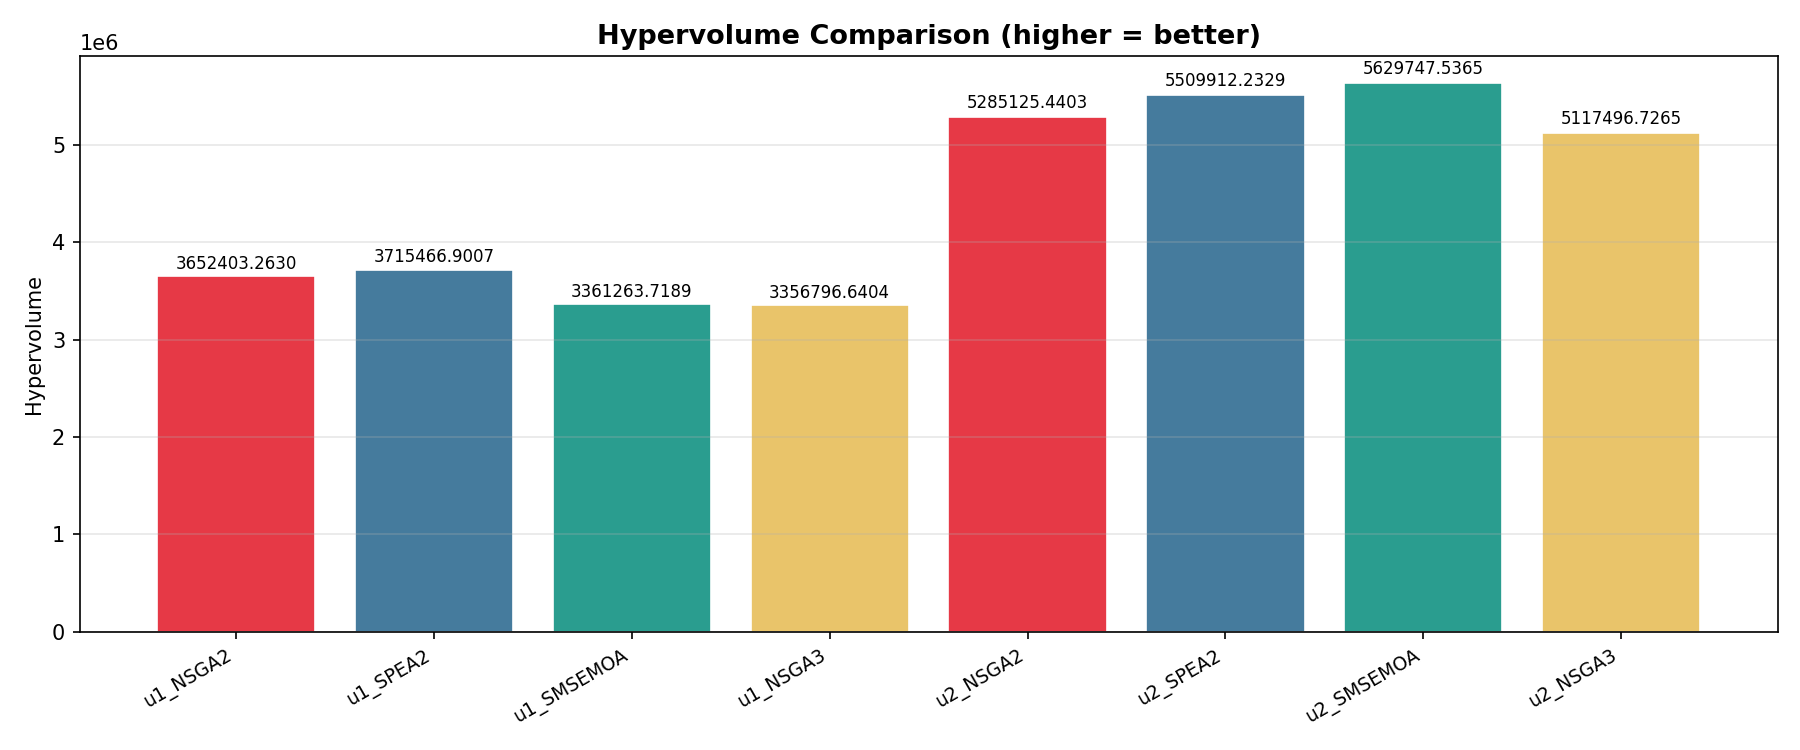
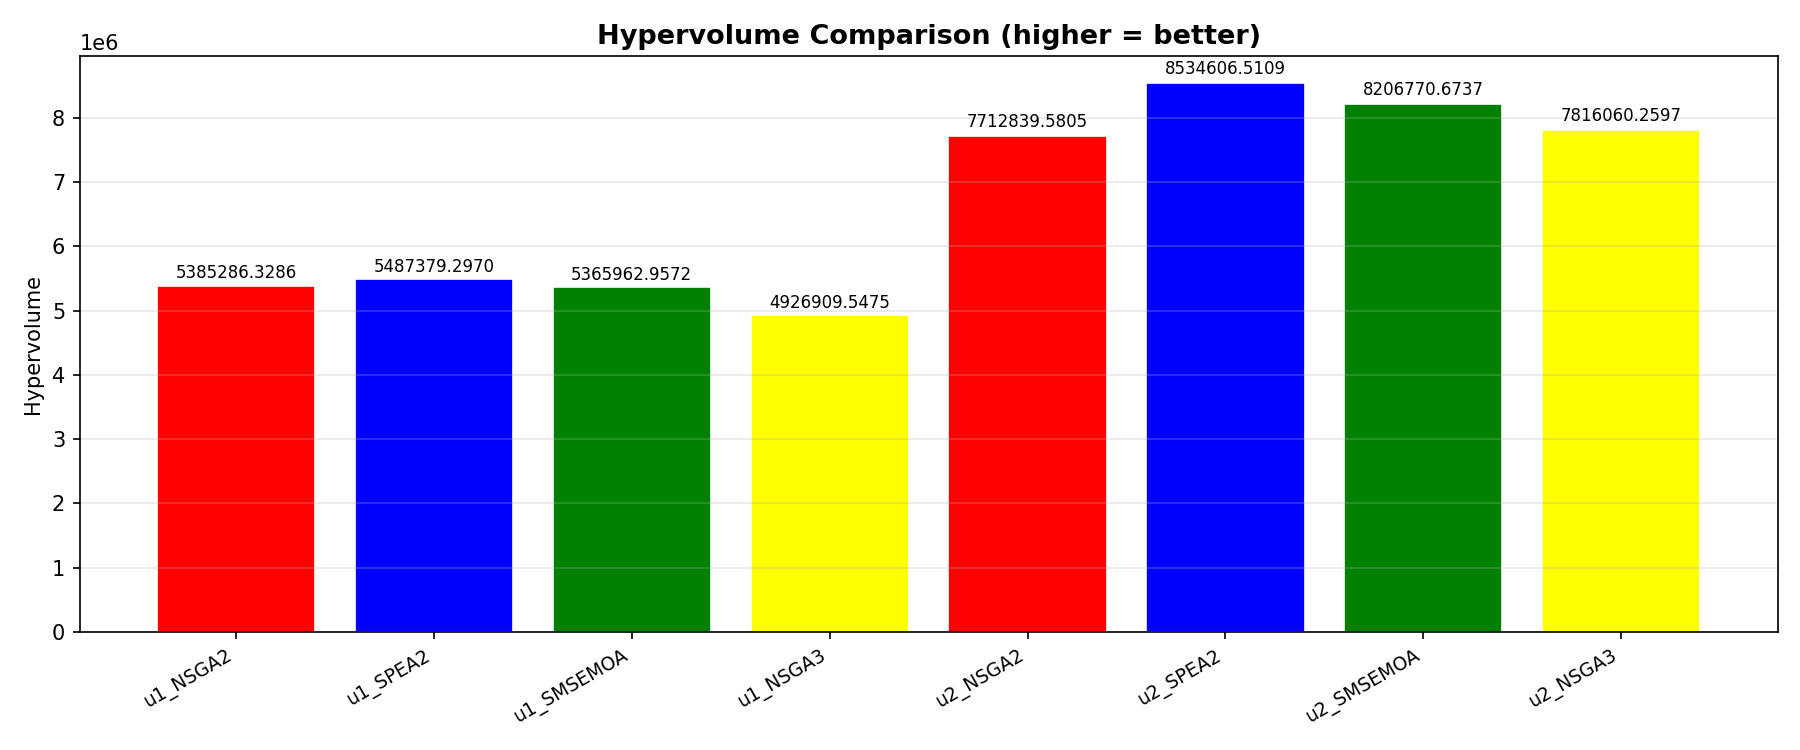
Add multiple U2 algorithm runs and polish plots

diff --git a/src/main.py b/src/main.py
@@ -1,6 +1,4 @@
 import os
-
-
 output_dir = os.path.join(os.path.dirname(__file__), '..', 'results')
 os.makedirs(output_dir, exist_ok=True)
 
@@ -28,7 +26,7 @@ from fitness import fitness
 import visualize
 
 
-# ── CALLBACK ────────────────────────────────────────────────────
+# --- Callback to track F history during optimization ---
 class FHistoryCallback(Callback):
     def __init__(self):
         super().__init__()
@@ -42,7 +40,7 @@ class FHistoryCallback(Callback):
             self.F_history.append(None)
 
 
-# ── PROBLEM ─────────────────────────────────────────────────────
+# ---- Problem Definition and Optimization ----
 class DietProblem(ElementwiseProblem):
     def __init__(self, user_id, diversity=True):
         super().__init__(n_var=405, n_obj=3, xl=0, xu=405)
@@ -59,7 +57,7 @@ class DietProblem(ElementwiseProblem):
         out["F"] = values
 
 
-# ── NON-VEGAN - USER 1 ──────────────────────────────────────────
+# -------NON-VEGAN - USER 1 ----------------------------------------------------------------------------------------------------------------------------------------
 problem_u1 = DietProblem(user_id=1)
 
 cb = FHistoryCallback()
@@ -85,37 +83,42 @@ algorithm = NSGA3(ref_dirs=ref_dirs, pop_size=100, sampling=PermutationRandomSam
 result_u1_n3 = minimize(problem_u1, algorithm, ('n_gen', 200), verbose=True, callback=cb)
 u1_n3_history = cb.F_history
 print("NSGA3:", len(result_u1_n3.F), "solution")
+# ----------------------------------------------------------------------------------------------------------------------------------------------------------
 
-
-# ── VEGAN - USER 2 ──────────────────────────────────────────────
+# -------VEGAN - USER 2 ----------------------------------------------------------------------------------------------------------------------------------------
 problem_u2 = DietProblem(user_id=2)
 
+# User 2 NSGA2
 cb = FHistoryCallback()
 algorithm = NSGA2(pop_size=100, sampling=PermutationRandomSampling(), crossover=OrderCrossover(), mutation=InversionMutation(), eliminate_duplicates=True)
 result_u2_n2 = minimize(problem_u2, algorithm, ('n_gen', 200), verbose=True, callback=cb)
 u2_n2_history = cb.F_history
 print("NSGA2:", len(result_u2_n2.F), "solution")
 
+# User 2 SPEA2
 cb = FHistoryCallback()
 algorithm = SPEA2(pop_size=100, sampling=PermutationRandomSampling(), crossover=OrderCrossover(), mutation=InversionMutation(), eliminate_duplicates=True)
 result_u2_s2 = minimize(problem_u2, algorithm, ('n_gen', 200), verbose=True, callback=cb)
 u2_s2_history = cb.F_history
 print("SPEA2:", len(result_u2_s2.F), "solution")
 
+# User 2 SMSEMOA
 cb = FHistoryCallback()
 algorithm = SMSEMOA(pop_size=100, sampling=PermutationRandomSampling(), crossover=OrderCrossover(), mutation=InversionMutation(), eliminate_duplicates=True)
 result_u2_sms = minimize(problem_u2, algorithm, ('n_gen', 200), verbose=True, callback=cb)
 u2_sms_history = cb.F_history
 print("SMSEMOA:", len(result_u2_sms.F), "solution")
 
+# User 2 NSGA3
 cb = FHistoryCallback()
 algorithm = NSGA3(ref_dirs=ref_dirs, pop_size=100, sampling=PermutationRandomSampling(), crossover=OrderCrossover(), mutation=InversionMutation(), eliminate_duplicates=True)
 result_u2_n3 = minimize(problem_u2, algorithm, ('n_gen', 200), verbose=True, callback=cb)
 u2_n3_history = cb.F_history
 print("NSGA3:", len(result_u2_n3.F), "solution")
 
+# --------------------------------------------------------------------------------------------------------------------------------------------------------------
 
-# ── KARŞILAŞTIRMA - REFERANS NOKTASI & HYPERVOLUME ──────────────
+# --- Compute Hypervolume (Reference point for all 4 algorithms) ---
 all_F = np.vstack([
     result_u1_n2.F, result_u1_s2.F, result_u1_n3.F, result_u1_sms.F,
     result_u2_n2.F, result_u2_s2.F, result_u2_n3.F, result_u2_sms.F,
@@ -138,7 +141,7 @@ for key, val in hv_dict.items():
     print(f"{key} Hypervolume : {val}")
 
 
-# ── SONUÇLARI CSV KAYDET ────────────────────────────────────────
+# --- Save results to CSV ---
 pd.DataFrame(result_u1_n2.F,  columns=["preference", "cost", "prepTime"]).to_csv(os.path.join(output_dir, "nsga-2_u1.csv"),   index=False)
 pd.DataFrame(result_u1_s2.F,  columns=["preference", "cost", "prepTime"]).to_csv(os.path.join(output_dir, "spea-2_u1.csv"),   index=False)
 pd.DataFrame(result_u1_sms.F, columns=["preference", "cost", "prepTime"]).to_csv(os.path.join(output_dir, "smsemoa_u1.csv"),  index=False)
@@ -149,7 +152,7 @@ pd.DataFrame(result_u2_s2.F,  columns=["preference", "cost", "prepTime"]).to_csv
 pd.DataFrame(result_u2_sms.F, columns=["preference", "cost", "prepTime"]).to_csv(os.path.join(output_dir, "smsemoa_u2.csv"),  index=False)
 pd.DataFrame(result_u2_n3.F,  columns=["preference", "cost", "prepTime"]).to_csv(os.path.join(output_dir, "nsga-3_u2.csv"),   index=False)
 
-# ── DIVERSITY KARŞILAŞTIRMASI - USER 1, NSGA2 ───────────────────
+# --- Diversity Comparison (NSGA2 with vs without diversity) ---
 problem_u1_nodiv = DietProblem(user_id=1, diversity=False)
 
 cb = FHistoryCallback()
@@ -157,7 +160,8 @@ algorithm = NSGA2(pop_size=100, sampling=PermutationRandomSampling(), crossover=
 result_u1_n2_nodiv = minimize(problem_u1_nodiv, algorithm, ('n_gen', 200), verbose=True, callback=cb)
 print("NSGA2 (no diversity):", len(result_u1_n2_nodiv.F), "solution")
 
-# ── GÖRSELLEŞTİRME ─────────────────────────────────────────────
+
+# --- Visualization ---
 
 visualize.run_all(
     results_u1=[result_u1_n2, result_u1_s2, result_u1_sms, result_u1_n3],

diff --git a/src/visualize.py b/src/visualize.py
@@ -1,8 +1,3 @@
-"""
-visualize.py  –  Diet Optimization Results Visualizer
-Run after main.py has populated the result_* variables and *_history lists.
-"""
-
 import os
 import numpy as np
 import matplotlib.pyplot as plt
@@ -13,16 +8,13 @@ os.makedirs(output_dir, exist_ok=True)
 
 ALGO_LABELS  = ["NSGA-2", "SPEA-2", "SMS-EMOA", "NSGA-3"]
 USER_LABELS  = ["User-1 (Non-Vegan)", "User-2 (Vegan)"]
-OBJ_LABELS   = ["Preference ↓", "Cost ↓", "Prep Time ↓"]
-COLORS       = ["#E63946", "#457B9D", "#2A9D8F", "#E9C46A"]
+OBJ_LABELS   = ["Preference", "Cost", "Prep Time"]
+COLORS       = ["red", "blue", "green", "yellow"]
 
 
-# ─── 1. Pareto Front – 3-D scatter ────────────────────────────────────────────
+# --- Pareto Front – 3-D scatter plot ---
 
 def plot_pareto_3d(results_u1, results_u2):
-    """
-    results_u1 / results_u2 : list of 4 result objects [nsga2, spea2, sms, nsga3]
-    """
     fig = plt.figure(figsize=(16, 6))
     fig.suptitle("Pareto Fronts – 3-D Objective Space", fontsize=14, fontweight="bold")
 
@@ -45,16 +37,10 @@ def plot_pareto_3d(results_u1, results_u2):
     print("Saved: pareto_3d.png")
 
 
-# ─── 2. Convergence Curve – HV vs Generation ──────────────────────────────────
+# --- Convergence Curve – HV vs Generation ---
 
 def plot_convergence(histories_u1, histories_u2, ref_point):
-    """
-    histories_u*  : list of 4 F_history lists  (each is a list of length n_gen,
-                    where each element is an (n, 3) array or None)
-    ref_point     : (3,) array used for HV
-    """
     hv_calc = HV(ref_point=ref_point)
-
     fig, axes = plt.subplots(1, 2, figsize=(14, 5), sharey=False)
     fig.suptitle("Convergence – Hypervolume per Generation", fontsize=14, fontweight="bold")
 
@@ -83,7 +69,7 @@ def plot_convergence(histories_u1, histories_u2, ref_point):
     print("Saved: convergence.png")
 
 
-# ─── 3. HV Bar Chart ──────────────────────────────────────────────────────────
+# --- 3. HV Bar Chart ---
 
 def plot_hv_bar(hv_dict):
     """
@@ -95,7 +81,7 @@ def plot_hv_bar(hv_dict):
 
     fig, ax = plt.subplots(figsize=(12, 5))
     bars = ax.bar(labels, values, color=bar_colors, edgecolor="white", linewidth=0.8)
-    ax.set_title("Hypervolume Comparison (higher = better)", fontsize=13, fontweight="bold")
+    ax.set_title("Hypervolume Comparison", fontsize=13, fontweight="bold")
     ax.set_ylabel("Hypervolume")
     ax.set_xticks(range(len(labels)))
     ax.set_xticklabels(labels, rotation=30, ha="right", fontsize=9)
@@ -111,13 +97,9 @@ def plot_hv_bar(hv_dict):
     plt.close()
     print("Saved: hv_bar.png")
 
-# ─── 5. Diversity Karşılaştırması ─────────────────────────────────────────────
+# --- Diversity Karşılaştırması ---
 
 def plot_diversity_comparison(result_with, result_without, decode_fn, foods, nutrients, food_nutrients, dri):
-    """
-    Pareto front overlay + ortalama group sayısı karşılaştırması
-    """
-    # ── Ortalama group sayısını hesapla
     def avg_groups(result):
         counts = []
         for x in result.X:
@@ -136,8 +118,8 @@ def plot_diversity_comparison(result_with, result_without, decode_fn, foods, nut
     ax = axes[0]
     ax.scatter(result_with.F[:, 0],    result_with.F[:, 1],    color=COLORS[0], s=25, alpha=0.8, label="With Diversity")
     ax.scatter(result_without.F[:, 0], result_without.F[:, 1], color=COLORS[1], s=25, alpha=0.8, label="Without Diversity")
-    ax.set_xlabel("Preference ↓")
-    ax.set_ylabel("Cost ↓")
+    ax.set_xlabel("Preference")
+    ax.set_ylabel("Cost")
     ax.set_title("Pareto Front (Preference vs Cost)")
     ax.legend()
     ax.grid(True, alpha=0.3)
@@ -170,10 +152,10 @@ def plot_diversity_comparison(result_with, result_without, decode_fn, foods, nut
     plt.show()
     plt.close()
     print("Saved: diversity_comparison.png")
-# ─── 4. Sample Menu Table ─────────────────────────────────────────────────────
 
-def plot_menu_table(result, decode_fn, foods, nutrients, food_nutrients, dri,
-                    n_samples=3, title="Sample Menus", filename="menu_table.png"):
+# --- 5. Sample Menu Table ---
+
+def plot_menu_table(result, decode_fn, foods, nutrients, food_nutrients, dri, n_samples=3, title="Sample Menus", filename="menu_table.png"):
     NUTRIENT_NAMES = {5: "Energy(kcal)", 15: "Protein(g)", 8: "Carb(g)", 4: "Fiber(g)", 17: "Sodium(mg)"}
     NUT_IDS = [5, 15, 8, 4, 17]
 
@@ -216,7 +198,7 @@ def plot_menu_table(result, decode_fn, foods, nutrients, food_nutrients, dri,
             cell.set_text_props(ha="left", wrap=True)
 
     for col in range(len(col_headers)):
-        tbl[0, col].set_facecolor("#2A9D8F")
+        tbl[0, col].set_facecolor(color="blue")
         tbl[0, col].set_text_props(color="white", fontweight="bold")
 
     ax.set_title(title, fontsize=12, fontweight="bold", pad=12)
@@ -224,9 +206,9 @@ def plot_menu_table(result, decode_fn, foods, nutrients, food_nutrients, dri,
     plt.savefig(os.path.join(output_dir, filename), dpi=150, bbox_inches="tight")
     plt.show()
     plt.close()
-    print(f"Saved: {filename}")
+    print("Saved:" + filename)
 
-# ─── Entry Point (called from main.py or standalone) ──────────────────────────
+# --- run plots ---
 
 def run_all(
     results_u1, results_u2,           # each: [nsga2, spea2, sms, nsga3]
@@ -260,4 +242,5 @@ def run_all(
             food_nutrients=food_nutrients,
             dri=dri_u1,
         )
-    print("\nAll plots saved to: Diet-Menu-Optimizer\results")
+    print("\nAll plots saved to: Diet-Menu-Optimizer \ results")
+

diff --git a/src/fitness.py b/src/fitness.py
@@ -1,7 +1,4 @@
-
-
 HUGE_PENALTY = 1_000_000
-
 
 def calculate_penalty(totals, dri):
     penalty = 0.0
@@ -34,7 +31,6 @@ def calculate_penalty(totals, dri):
 
     return penalty, violation_details
 
-
 def calculate_objectives(menu, foods, preferences):
     preference_score = 0.0
     total_cost = 0.0
@@ -61,9 +57,6 @@ def calculate_objectives(menu, foods, preferences):
         total_time += preparing_time + cooking_time
 
     return preference_score, total_cost, total_time, forbidden_count
-
-
-
 
 def fitness(
     menu,
